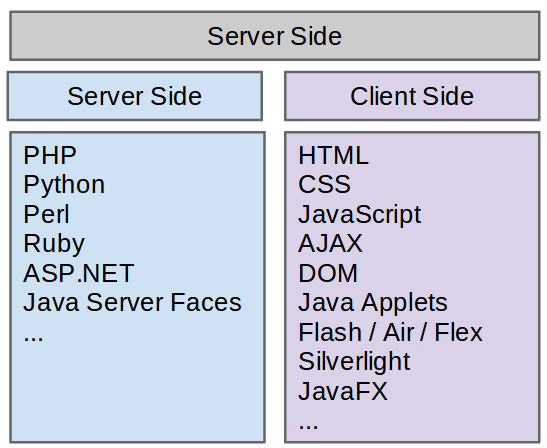
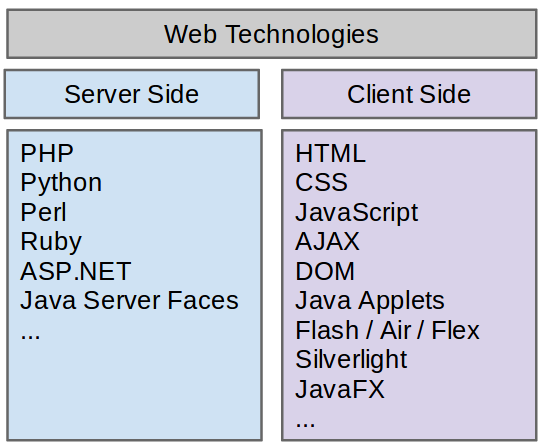
spelling corrections in chapter web-dev, correctiong figure and figure caption

Changed region(s): [[0.0, 0.0, 0.9963, 1.0]]

diff --git a/chapters/2_webdevelopment/web_development.tex b/chapters/2_webdevelopment/web_development.tex
@@ -1,7 +1,7 @@
 \chapter{Brief examination on Web Technologies}\label{chap:web_dev}
 
 In this chapter a brief overview of the state of the art in web development is given.
-The different available technologies are discussed in regard to their abilities of building web application with rich interaction possibilities similar to native desktop applications and the integration in the navigator GUI in particular.
+The different available technologies are discussed with regard to their abilities of building web application with rich interaction possibilities similar to native desktop applications and the integration in the navigator GUI in particular.
 This shall reveal the most appropriate technology for building web applications that can be integrated in a seamless manner.
 
 The technologies, this comprises programming languages, standards, protocols and so on that can be used for building web applications are manifold.
@@ -18,7 +18,7 @@ Picture \ref{fig:web-technologies} depicts this separation and lists a (subset) 
 
 \begin{figure}
 	\centering \includegraphics[width=0.61\textwidth]{./img/web-dev/web_technologies.png}
-	\caption{usage client side web technologies}
+	\caption{Classification of web technologies}
 	\label{fig:web-technologies}
 \end{figure}
 
